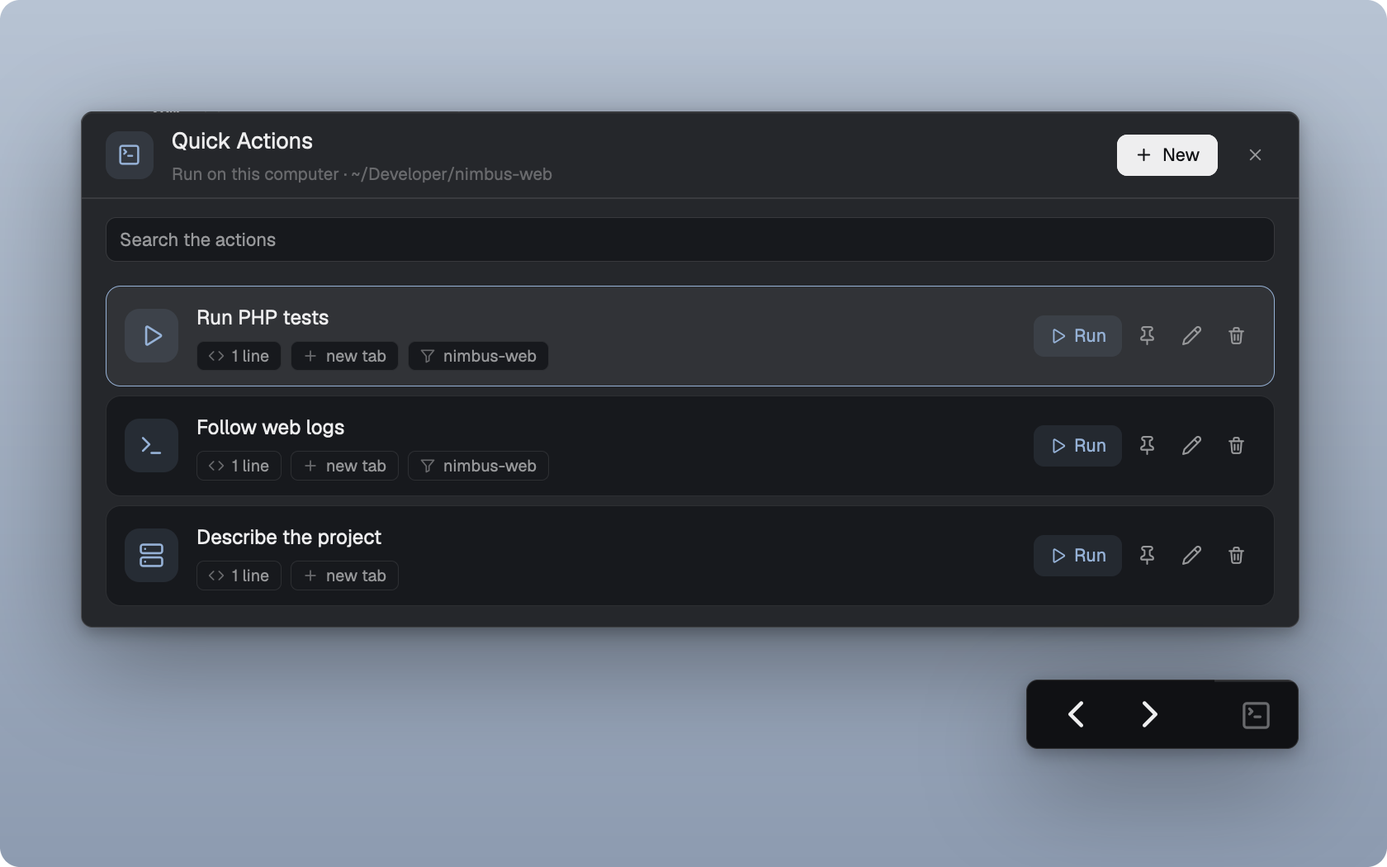
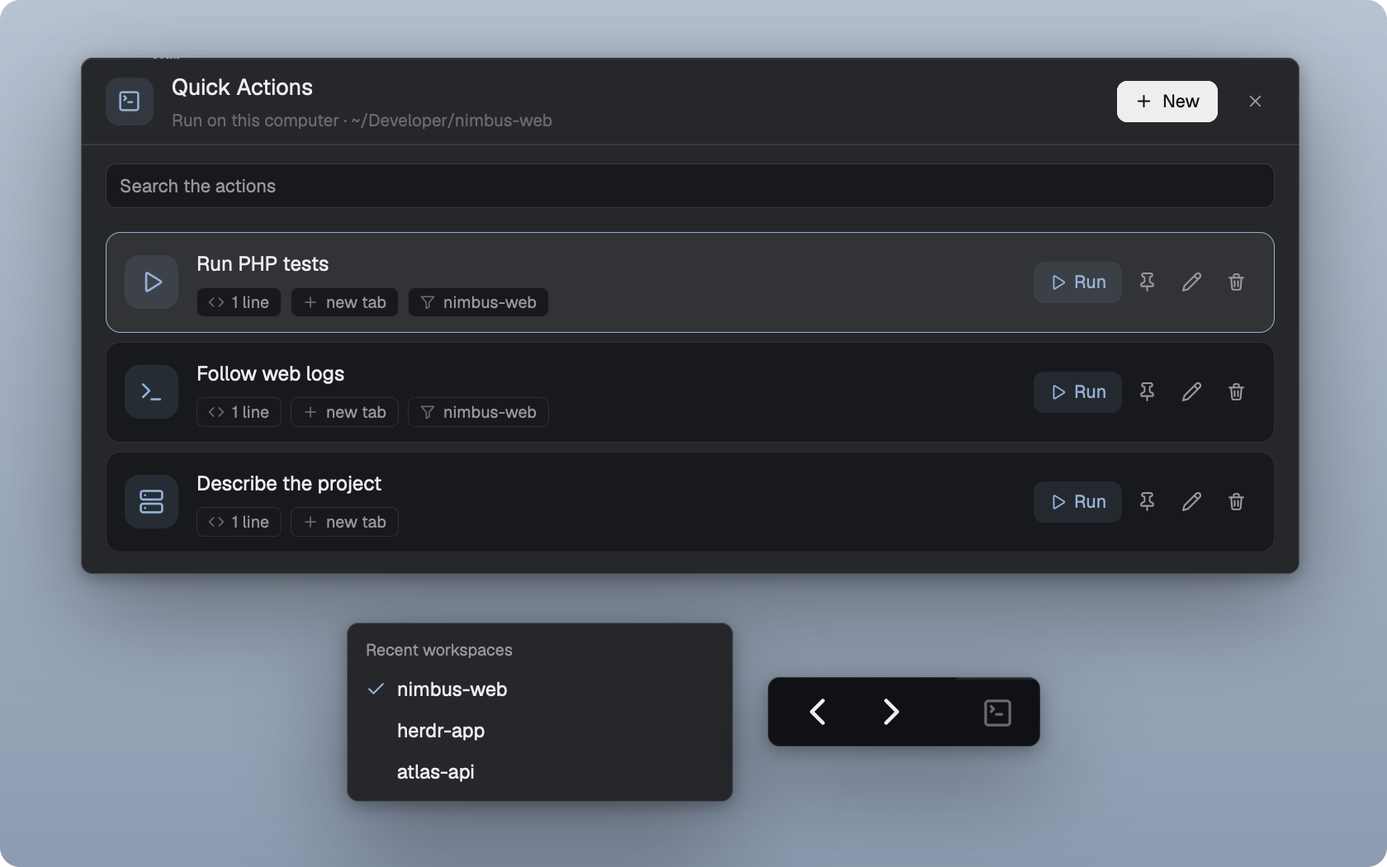
feat(back-and-forward): show recent workspaces on right-click

diff --git a/packages/back-and-forward/mods/back-and-forward/alias.js b/packages/back-and-forward/mods/back-and-forward/alias.js
@@ -1,0 +1,148 @@
+// Plausible fake names for "hide names" (shared `names.hidden`): what a screenshot shows in place
+// of a space, folder, tab, branch, machine or folder path. An alias is a pure function of the kind
+// and the real string as displayed: no map, no state, nothing written, so the same real name gets
+// the same fake one in every mod. The same file is in every mod that uses it (a mod imports only
+// from its own folder): keep the copies the same. It touches nothing of the app and runs under
+// `node` (alias.test.mjs in hide-names).
+
+const PROJECTS = [
+  "acorn", "alder", "amber", "anchor", "arbor", "aspen", "atlas", "aurora", "badger", "basalt",
+  "beacon", "birch", "bramble", "breeze", "brook", "canyon", "cascade", "cedar", "citadel", "clover",
+  "cobalt", "comet", "condor", "coral", "cosmos", "crest", "cypress", "delta", "drift", "dune",
+  "echo", "ember", "falcon", "fern", "fjord", "flint", "forge", "fox", "gale", "garnet",
+  "glacier", "granite", "grove", "gull", "harbor", "hazel", "helix", "heron", "horizon", "indigo",
+  "iris", "ivory", "jade", "jasper", "juniper", "kelp", "kestrel", "lagoon", "lantern", "larch",
+  "lark", "lotus", "lumen", "lynx", "magnet", "maple", "marble", "marlin", "meadow", "mercury",
+  "mesa", "mist", "moss", "nectar", "nimbus", "nova", "oak", "oasis", "onyx", "opal",
+  "orbit", "orchid", "osprey", "otter", "papyrus", "pebble", "pelican", "pepper", "pilot", "pine",
+  "pixel", "plume", "polar", "prairie", "prism", "puffin", "pulsar", "quartz", "quasar", "quill",
+  "raven", "reef", "ridge", "river", "rook", "rowan", "ruby", "sable", "saffron", "sage",
+  "salmon", "sequoia", "shale", "sierra", "signal", "slate", "solstice", "sonar", "spark", "sparrow",
+  "spruce", "stellar", "summit", "tango", "thistle", "tide", "timber", "topaz", "trail", "tundra",
+  "vapor", "vector", "velvet", "vertex", "walnut", "willow", "wren", "yarrow", "zenith", "zephyr",
+  "bluebell", "copper", "dahlia", "ferret", "hollow", "ibis", "kite", "linden", "monsoon", "nutmeg",
+];
+const SUFFIXES = ["-api", "-web", "-app", "-cli", "-site", "-docs"];
+
+const FOLDERS = [
+  "Clients", "Tools", "Lab", "Personal", "Infra", "Archive", "Sites", "Experiments", "Libraries", "Services",
+  "Sandbox", "Work", "Studio", "Ops", "Research", "Design", "Docs", "Apps", "Backends", "Frontends",
+  "Data", "Scripts", "Playground", "Learning", "Plugins", "Templates", "Mobile", "Games", "Hardware", "Notes",
+  "Ideas", "Forks", "Demos", "Prototypes", "Utilities", "Websites", "Themes", "Integrations", "Internal", "Later",
+];
+
+const VERBS = [
+  "Fix", "Refactor", "Add", "Update", "Review", "Clean up", "Speed up", "Document", "Test", "Migrate",
+  "Rework", "Polish", "Debug", "Simplify", "Split", "Rename", "Remove", "Profile", "Port", "Draft",
+  "Tidy", "Harden", "Extend", "Wire up",
+];
+const OBJECTS = [
+  "login redirect", "search index", "cache layer", "billing page", "CSV export", "settings screen", "image upload", "error toasts",
+  "dark mode", "signup flow", "rate limiter", "sync worker", "API client", "dashboard charts", "release notes", "onboarding tour",
+  "password reset", "date picker", "webhook handler", "CI pipeline", "build script", "feature flags", "audit log", "invoice PDF",
+  "retry logic", "query planner", "sidebar layout", "keyboard shortcuts", "theme tokens", "test fixtures", "mobile menu", "profile page",
+  "upload progress", "email templates", "cron jobs", "session timeout", "pagination", "search filters", "map view", "chart tooltips",
+  "file watcher", "config loader", "permission checks", "color picker", "metrics endpoint", "health check", "logging setup", "lint rules",
+  "docker image", "migration script", "translations", "form validation", "cart totals", "notification center", "comment thread", "tag editor",
+  "import wizard", "backup job", "status page", "schema types", "cookie banner", "footer links", "avatar crop", "timezone handling",
+  "offline mode",
+];
+
+const HOSTS = [
+  "studio", "devbox", "buildhost", "nas", "homelab", "cloudvm", "edge", "runner", "sandbox", "worker",
+  "lab", "mini", "tower", "relay", "bastion", "forge-vm", "arm-box", "gpu-node", "office", "garage",
+  "backup", "staging-vm", "media", "pi",
+];
+
+const KEEP_BRANCHES = new Set(["main", "master", "develop", "dev", "staging", "production", "trunk", "head", "detached", "(detached)"]);
+const PREFIX = /^(feat|feature|fix|bugfix|chore|docs|refactor|hotfix|release|test|perf|ci|build|style|wip)\//i;
+const BRANCH_PREFIXES = ["feat/", "fix/", "chore/", "refactor/"];
+const HERE = new Set(["this computer", "this mac"]);
+// Labels that are no one's name: a program, a shell, a tab's number.
+const PLAIN = new Set(["terminal", "shell", "zsh", "bash", "fish", "sh", "nu", "pwsh", "program"]);
+
+const norm = (s) => String(s ?? "").trim().toLowerCase();
+
+// FNV-1a, 32 bits; `seed` makes a second, independent hash of the same text.
+function hash(s, seed = 0) {
+  let h = (0x811c9dc5 ^ seed) >>> 0;
+  for (let i = 0; i < s.length; i++) h = Math.imul(h ^ s.charCodeAt(i), 0x01000193);
+  return h >>> 0;
+}
+const pick = (list, s, seed) => list[hash(s, seed) % list.length];
+const slug = (s) => s.toLowerCase().replace(/ /g, "-");
+
+// A space or project name: lower case, like a repository's. `~` and "" stay.
+export function project(name) {
+  const s = norm(name);
+  if (s === "" || s === "~") return String(name ?? "").trim();
+  const h = hash(s, 0x5a17);
+  const word = PROJECTS[h % PROJECTS.length];
+  const n = hash(s, 0x2b3c) % 16;
+  return word + (n < SUFFIXES.length ? SUFFIXES[n] : "");
+}
+
+// A sidebar folder's name. `taken`: names already given to other folders, to avoid: the next free
+// one in a stable order, else a number.
+export function folder(name, taken) {
+  const s = norm(name);
+  if (s === "") return "";
+  const start = hash(s, 0x7f01) % FOLDERS.length;
+  for (let i = 0; i < FOLDERS.length; i++) {
+    const f = FOLDERS[(start + i) % FOLDERS.length];
+    if (!taken || !taken.has(f)) return f;
+  }
+  for (let n = 2; ; n++) {
+    const f = `${FOLDERS[start]} ${n}`;
+    if (!taken.has(f)) return f;
+  }
+}
+
+// A tab's name or an agent's task title: "Refactor search index". "" stays.
+export function title(text) {
+  const s = norm(text);
+  if (s === "") return "";
+  return `${pick(VERBS, s, 0x1d)} ${pick(OBJECTS, s, 0x3e)}`;
+}
+
+// A label that may be a name or may be plain: a tab's number, a program's name (`plain`, e.g. the
+// pane's program), a shell; those stay, anything else is a title().
+export function label(text, ...plain) {
+  const s = norm(text);
+  if (s === "" || /^\d+$/.test(s) || PLAIN.has(s) || plain.some((p) => p && norm(p) === s)) return text ?? "";
+  return title(text);
+}
+
+// A branch: the usual long-lived ones stay; a conventional prefix stays, and the rest is made up.
+export function branch(name) {
+  const raw = String(name ?? "").trim();
+  const s = raw.toLowerCase();
+  if (s === "" || KEEP_BRANCHES.has(s)) return raw;
+  const m = PREFIX.exec(raw);
+  const rest = slug(pick(OBJECTS, s, 0x4c));
+  return (m ? m[0].toLowerCase() : pick(BRANCH_PREFIXES, s, 0x55)) + rest;
+}
+
+// A machine's name. This computer's label stays.
+export function machine(name) {
+  const s = norm(name);
+  if (s === "" || HERE.has(s)) return String(name ?? "");
+  return pick(HOSTS, s, 0x6d);
+}
+
+// A folder path, for a pane header: home is `~`; else `~/<fake project>`, named after the segment
+// that is the space's real name when there is one (then `/…` when the folder is deeper), else after
+// the last segment. No real segment is ever shown.
+export function path(cwd, home, spaceName) {
+  if (!cwd) return "";
+  const trim = (p) => String(p ?? "").replace(/\/+$/, "");
+  const c = trim(cwd), h = trim(home);
+  if (c === "" || c === h || c === "~") return "~";
+  const segs = c.split("/").filter(Boolean);
+  if (!segs.length) return "~";
+  const want = norm(spaceName);
+  let at = -1;
+  if (want && want !== "~") for (let i = segs.length - 1; i >= 0; i--) if (norm(segs[i]) === want) { at = i; break; }
+  if (at >= 0) return `~/${project(segs[at])}${at < segs.length - 1 ? "/…" : ""}`;
+  return `~/${project(segs[segs.length - 1])}`;
+}

diff --git a/packages/back-and-forward/mods/back-and-forward/main.js b/packages/back-and-forward/mods/back-and-forward/main.js
@@ -3,10 +3,12 @@
 // updates which pane that step comes back to.
 
 import { View, div, svg } from "gpui-kit";
-import { h_flex } from "gpui-base";
-import { checking, focused, nextCommand, panes, spaces, theme, run } from "herdr";
+import { h_flex, v_flex } from "gpui-base";
+import { checking, closeOverlay, focused, nextCommand, openOverlay, panes, props, run, shared, spaces, theme } from "herdr";
+import * as alias from "./alias.js";
 
 const MAX_STEPS = 100;
+const ROW_HEIGHT = 28;
 // A step runs space.select, tab.select and pane.focus in turn, and a render can land between them.
 const ARRIVAL_WINDOW_MS = 1000;
 
@@ -19,6 +21,12 @@ function tabExists(step, available) {
 
 export default class BackForward extends View {
   init(_p, cx) {
+    const p = props();
+    if (p?.overlay && Array.isArray(p.recent)) {
+      this.menu = p;
+      return;
+    }
+    this.recent = [];
     this.steps = [];
     this.index = -1;
     this.goingTo = null;
@@ -35,6 +43,9 @@ export default class BackForward extends View {
   follow() {
     const f = focused();
     if (!f?.space || !f.tab) return;
+    if (this.recent[0] !== f.space) {
+      this.recent = [f.space, ...this.recent.filter((id) => id !== f.space)].slice(0, MAX_STEPS);
+    }
     if (this.goingTo !== null) {
       const target = this.steps[this.goingTo.index];
       if (target && sameTab(target, f)) {
@@ -88,20 +99,51 @@ export default class BackForward extends View {
     this.go(e.button === "back" ? -1 : 1);
   }
 
+  recentMenu(t, available) {
+    const byId = new Map(available.map((space) => [space.id, space]));
+    const recent = this.menu.recent.map((id) => byId.get(id)).filter(Boolean);
+    const hidden = shared("names.hidden");
+    const row = (space) => {
+      const name = hidden ? alias.project(space.name) : space.name;
+      const machine = hidden ? alias.machine(space.machine) : space.machine;
+      return h_flex().id(`recent-${space.id}`).h(ROW_HEIGHT).flex_none().items_center().gap(7).px(7).rounded(5)
+        .cursor_pointer().hover((s) => s.bg(t.hover))
+        .tooltip(machine ? `${name} · ${machine}` : name)
+        .on_click(() => {
+          closeOverlay(this.menu.overlay);
+          if (spaces().some((s) => s.id === space.id && !s.active)) run("space.select", { id: space.id });
+        })
+        .child(div().size(14).flex_none().when(space.active, (el) =>
+          el.child(svg("mods/workspace-chrome/check.svg").size(14).text_color(t.accent))))
+        .child(div().flex_1().min_w(0).truncate().child(name))
+        .when(Boolean(machine), (el) => el.child(div().max_w(100).truncate().text_size(11).text_color(t.muted).child(machine)));
+    };
+    return v_flex().w_full().min_h(0).p(5).bg(t.popover).text_size(13).text_color(t.foreground)
+      .child(div().px(7).py(4).flex_none().text_size(11).font_semibold().text_color(t.muted).child("Recent workspaces"))
+      .child(recent.length
+        ? v_flex().id("recent-list").min_h(0).h(ROW_HEIGHT * Math.min(10, recent.length)).overflow_y_scrollbar().children(recent.map(row))
+        : div().px(7).py(6).text_color(t.muted).child("No recent workspaces"));
+  }
+
   button(t, id, icon, direction, label, available) {
     const enabled = this.nextIndex(direction, available) !== null;
     return div().id(id).size(28).flex_none().flex().items_center().justify_center().rounded(7)
       .text_color(enabled ? t.foreground : t.dim).opacity(enabled ? 1 : 0.45)
       .when(enabled, (el) => el.cursor_pointer().hover((s) => s.bg(t.hover)))
-      .tooltip(label)
+      .tooltip(`${label} · Right-click for recent workspaces`)
+      .on_mouse_down("right", (e, cx) => {
+        cx.stop_propagation();
+        openOverlay({ mod: "back-and-forward", kind: "popup", at: e.position, width: 260, props: { recent: this.recent } });
+      })
       .on_mouse_down("left", (_e, cx) => cx.stop_propagation())
       .on_click(() => this.go(direction))
       .child(svg(`mods/workspace-chrome/${icon}.svg`).size(18));
   }
 
   render() {
-    this.follow();
     const t = theme(), available = spaces();
+    if (this.menu) return this.recentMenu(t, available);
+    this.follow();
     // Outside the status block, capture the press before the editor or diff gets it.
     // Inside, the same gesture goes through the block's own button handlers.
     const press = (e, cx) => this.mouseHistory(e, cx);

diff --git a/docs/check-shared.py b/docs/check-shared.py
@@ -4,7 +4,7 @@ import sys
 
 PACKAGES = Path(__file__).resolve().parents[1] / "packages"
 COPIES = {
-    "alias.js": {"hide-names", "tabs-names", "pane-names", "toast-names", "space-folders", "mark-agents-unread", "agent-usage"},
+    "alias.js": {"hide-names", "tabs-names", "pane-names", "toast-names", "space-folders", "mark-agents-unread", "agent-usage", "back-and-forward"},
     "fieldkeys.js": {"file-editor", "project-search", "go-to-file"},
     "remote.js": {"file-editor", "project-search"},
     "external-apps.js": {"file-explorer", "project-search", "space-folders"},

diff --git a/docs/agents/back-forward.md b/docs/agents/back-forward.md
@@ -5,7 +5,8 @@ Two status-bar buttons step through the places visited in this window. This is a
 ## Implementation
 
 - `main.js` keeps the history and paints the two arrows. `follow()` records the focused space, tab and pane on render. `nextIndex()` finds a visit in the requested direction. `go()` selects the destination space, then the tab, then its pane if it still belongs to that tab.
-- All state is in the view instance. It holds at most 100 visits. Reloading the mod or switching layouts starts fresh. Destinations use Herdr’s full IDs, including the machine prefix.
+- The status-bar instance holds at most 100 tab visits and a separate list of the last 100 distinct space IDs in visit order. Reloading the mod or switching layouts starts fresh. Destinations use Herdr’s full IDs, including the machine prefix.
+- Right-click opens a popup copy with the recent IDs in its props. It resolves names, machine labels and the active check against live spaces on render. `alias.js` supplies the same project and machine names as the sidebar when Hide Names is on. Only the status-bar copy follows focus and listens for navigation commands.
 - `mod.json` declares the two unbound palette commands, `back-and-forward.back` and `back-and-forward.forward`. Both and the buttons use `go()`. The chevrons come from Herdr’s shipped `workspace-chrome` assets. The layout supplies a 76 px block.
 - In the Power Tools layout, the `pane-names` header gets `{ "terminalHistory": true }`. On a terminal it extends a transparent side-button target from the header into the body. Herdr clips the target to that pane’s frame. It calls the same two commands.
 
@@ -15,10 +16,13 @@ Two status-bar buttons step through the places visited in this window. This is a
 - The status block also handles Option-only Back/Forward on press when the driver reports Option. Outside the block, `on_mouse_down_out` captures the press before panel handlers. Inside, the matching `on_mouse_down` handles it. Consume the chord even at a history boundary. Other modifier combinations pass through.
 - Only a change of tab or space adds a visit. A pane change updates the current visit. A temporarily missing pane, for example when a layout terminal takes focus, preserves the last model pane.
 - A new visit after Back discards the forward history. Skip unavailable tabs and consecutive equivalent destinations after a tab closes.
+- Both arrows open the same recent-workspace list, including at either history boundary. Back and Forward visits update its order, and branching preserves previously visited spaces in the list. Choosing a row uses `space.select`, as in the sidebar. Closed spaces drop out of the popup and are checked again at click time.
 - Keep a copy of the requested pane before issuing the selection commands. Intermediate renders may already show the right tab focused on a different pane. When the saved pane no longer exists, let Herdr choose the tab’s remaining pane.
 
 ## Verification
 
 The native checker loaded the mod. A simulated navigation test covered cross-machine IDs, redraws between commands, returning to a split pane, forward-history truncation, closed tabs and panes, and the history limit. A separate Herdr window with fake projects restored the expected space and pane in both directions using the two commands. Simulated events checked Option-only handling inside and outside the status block and at the end of history.
+
+An isolated Herdr window exercised both right-click callbacks with three demo spaces, including a dim Forward arrow. Selecting a row through its click callback switched spaces, and Back restored the previous tab and pane. The screenshot confirmed the list fits its rows. Its scroll area needs an explicit height or only the heading appears. Simulated events also covered repeat visits, branching, renamed and closed spaces, remote IDs, Hide Names and the 100-space limit. The pointer gestures were simulated.
 
 In an isolated stock Herdr 0.1.18 window on macOS, an MX Master 3 delivered Back and Forward with `alt: false` while Option was held. With a terminal above a two-file editor, the owner verified that plain Back over the editor switched files and that Back and Forward over the terminal switched workspace tabs in both directions. Simulated presses checked both header positions, modifier filtering and the opt-in on terminal panes.

diff --git a/AGENTS.override.md b/AGENTS.override.md
@@ -28,8 +28,8 @@ The mod sources are under `packages/<feature>/mods/<name>/`. Herdr reads real co
 | `agent-usage` | The dialog and sidebar widget of the AI agents' limits and usage. Not a clone | `docs/agents/usage.md` |
 | `tabs-names`, `pane-names`, `hide-names`, `toast-names` | Clones of Herdr's `tabs`, `pane`, `workspace-status` and `toast` (from version 0.1.18), for hide names | `docs/agents/hide-names.md` |
 
-- **Hide names** is a mode of the whole window, not one mod: `space-folders`, `mark-agents-unread`, `agent-usage` and the four clones above draw made-up names while shared `names.hidden` is set. Read `docs/agents/hide-names.md` before changing where any of them draws a name.
-- **Files kept the same in several mods**, since a mod imports only from its own folder: `alias.js` (in `hide-names`, `tabs-names`, `pane-names`, `toast-names`, `space-folders`, `mark-agents-unread` and `agent-usage`), `fieldkeys.js` (in `file-editor`, `project-search` and `go-to-file`), `remote.js` (in `file-editor` and `project-search`), `external-apps.js` (in `file-explorer`, `project-search` and `space-folders`) and `git-guard.js` (in `git-panel` and `git-diff`). Change every copy together. `python3 docs/check-shared.py` verifies all five families before each push.
+- **Hide names** is a mode of the whole window, not one mod: `space-folders`, `mark-agents-unread`, `agent-usage`, `back-and-forward` and the four clones above draw made-up names while shared `names.hidden` is set. Read `docs/agents/hide-names.md` before changing where any of them draws a name.
+- **Files kept the same in several mods**, since a mod imports only from its own folder: `alias.js` (in `hide-names`, `tabs-names`, `pane-names`, `toast-names`, `space-folders`, `mark-agents-unread`, `agent-usage` and `back-and-forward`), `fieldkeys.js` (in `file-editor`, `project-search` and `go-to-file`), `remote.js` (in `file-editor` and `project-search`), `external-apps.js` (in `file-explorer`, `project-search` and `space-folders`) and `git-guard.js` (in `git-panel` and `git-diff`). Change every copy together. `python3 docs/check-shared.py` verifies all five families before each push.
 - **Keep the notes true.** A change to what a mod does, to where its state lives or to something under its "Behavior to preserve" goes into its notes in the same change. A note about one mod goes in its file, not here; a new mod gets a file and a row in the table.
 - **Layout `herdr-powertools`** (`layouts/herdr-powertools.json`): a clone of Herdr's `main` (from version 0.1.18). The differences: its `spaces` block shows the mod `space-folders`, its `agents` block shows the mod `mark-agents-unread`, its `files` block shows the mod `file-explorer` and its `changes` block shows the mod `git-panel` (the block keeps its id, so the tab bar’s Git button opens it); the panel's stack has a third child, `search`, which shows the mod `project-search`; the `work` column ends with `search-keys`, a block 0 px tall with a second copy of `project-search` that only takes a key; and its root has `link_handlers: ["editor-links"]` (Herdr added it when it first saw that mod). The sidebar has a block of its own between `brand` and `sidebar-lists`, `usage-side` (62 px, the mod `agent-usage` with props `{ role: "side" }`). Its `tabs` block shows the mod `tabs-names`, the tab block's pane frame has the header `pane-names`, and its `status` block shows `hide-names` (each block keeps its id), and its root has `"toast": "toast-names"`, which draws every notification: Herdr's own, with hide names (see `docs/agents/hide-names.md`). The status bar has no usage figures: they were taken out, since the widget shows them. Its look adds, since 0.1.18: a `veil` of 0.3 on the tab block's pane frame (the panes you're not in fade, mod panes too) and an `accent` hover color on the root's divider.
 

diff --git a/docs/agents/hide-names.md b/docs/agents/hide-names.md
@@ -2,11 +2,11 @@
 
 Notes for agents on the window's hide names mode, and on the four clones made for it: the mods in `packages/hide-names/mods/tabs-names/`, `packages/hide-names/mods/pane-names/`, `packages/hide-names/mods/hide-names/` and `packages/hide-names/mods/toast-names/`. The index and what holds for every mod are in `AGENTS.override.md`.
 
-A mode of the whole window for a screenshot or a screen share, in which the names around the content are plausible made-up ones ("atlas", "Clients", "Refactor search index", `feat/search-filters`, "studio"). Shared `names.hidden` (`true`, else absent or `false`). `hide-names.toggle` turns it on and off (`cmd-shift-h` in `global`, and the palette's "Hide Names / Show Names"); the Usage dialog's toggle, its `h` key and `agent-usage.names` set the same flag. What it changes: the sidebar (`space-folders`), the agents list (`mark-agents-unread`), the tab bar (`tabs-names`), the pane headers (`pane-names`), the status bar (`hide-names`), the Usage dialog (`agent-usage`) and the notifications (`toast-names`). What it leaves: the panes' content (terminals, the editor, the diff) and the right panel (`file-explorer`, `git-panel`, `project-search`), which are content the owner chose to show.
+A mode of the whole window for a screenshot or a screen share, in which the names around the content are plausible made-up ones ("atlas", "Clients", "Refactor search index", `feat/search-filters`, "studio"). Shared `names.hidden` (`true`, else absent or `false`). `hide-names.toggle` turns it on and off (`cmd-shift-h` in `global`, and the palette's "Hide Names / Show Names"); the Usage dialog's toggle, its `h` key and `agent-usage.names` set the same flag. What it changes: the sidebar (`space-folders`), the agents list (`mark-agents-unread`), the tab bar (`tabs-names`), the pane headers (`pane-names`), the status bar (`hide-names`), its recent workspaces menu (`back-and-forward`), the Usage dialog (`agent-usage`) and the notifications (`toast-names`). What it leaves: the panes' content (terminals, the editor, the diff) and the right panel (`file-explorer`, `git-panel`, `project-search`), which are content the owner chose to show.
 
 ## What is where
 
-- `alias.js`: the made-up names, a pure function of the kind (`project()`, `folder()`, `title()`, `label()`, `branch()`, `machine()`, `path()`) and the real string as drawn. The same file is in `hide-names`, `tabs-names`, `pane-names`, `toast-names`, `space-folders`, `mark-agents-unread` and `agent-usage` (a mod imports only from its own folder): keep the copies the same. `alias.test.mjs` in `hide-names` tests it under `node --test`. The repository’s `docs/check-shared.py` checks all copies byte for byte.
+- `alias.js`: the made-up names, a pure function of the kind (`project()`, `folder()`, `title()`, `label()`, `branch()`, `machine()`, `path()`) and the real string as drawn. The same file is in `hide-names`, `tabs-names`, `pane-names`, `toast-names`, `space-folders`, `mark-agents-unread`, `agent-usage` and `back-and-forward` (a mod imports only from its own folder): keep the copies the same. `alias.test.mjs` in `hide-names` tests it under `node --test`. The repository’s `docs/check-shared.py` checks all copies byte for byte.
 - Started again, the app shows names: `hide-names` reads, in a task at its start, the app's process id and start time (`ps` on the `$PPID` of a program it runs, which is the app, called `Herdr`), keeps it in shared `names.boot`, and turns `names.hidden` off when the one kept is another run's. `names.boot` is written only when it changed.
 
 ## The four clones

diff --git a/docs/back-forward.md b/docs/back-forward.md
@@ -2,13 +2,15 @@
 
 Click **Back** in the status bar to return to the tab you were using before you switched spaces or jumped to an agent. Herdr restores the pane you last used in that tab, including a file editor or diff pane. **Forward** takes you back through the same visits. A dim arrow means there is no visit in that direction.
 
+Right-click either arrow, even a dim one, to see **Recent workspaces**. Each open space you’ve visited appears once, most recent first, with a check beside the current space. Click a name to switch directly to that space’s selected tab and pane. **Back** returns you to the tab you just left.
+
 In the Power Tools layout, point at a terminal and press the mouse’s **Back** or **Forward** button to use workspace history. In a split tab, the pointer decides which history you use. Over the File Editor the buttons switch files, and over a diff they move between changed files.
 
 **Option** (Alt) plus a side button also navigates workspace history over other panels when the mouse reports the modifier. With an MX Master 3 on macOS, Herdr can receive these as plain side clicks.
 
 Switching panes within one tab updates where you return. Going back and then choosing a different tab starts a new path. Closed tabs are skipped. If a pane has closed, the arrow opens its tab with the pane Herdr selects.
 
-The current window remembers up to 100 visits in memory. Restarting Herdr, switching layouts or reloading the mod starts a fresh history. **Go Back** and **Go Forward** are also in the command palette. To assign shortcuts, use `back-and-forward.back` and `back-and-forward.forward` in the global section of `keys.json`.
+The current window remembers up to 100 tab visits and 100 distinct recent workspaces in memory. Restarting Herdr, switching layouts or reloading the mod starts a fresh history. **Go Back** and **Go Forward** are also in the command palette. To assign shortcuts, use `back-and-forward.back` and `back-and-forward.forward` in the global section of `keys.json`.
 
 Adapted from the MIT-licensed [PostHog mod](https://github.com/PostHog/herdr/tree/8b0be111696030a626c47f90dceb77a579d33768/back-forward).
 

diff --git a/docs/hide-names.md b/docs/hide-names.md
@@ -1,6 +1,6 @@
 # Hide Names
 
-For a screenshot or a screen share: Cmd+Shift+H (or "Hide Names / Show Names" in the command palette) gives every space, folder, tab, branch and machine around the content a plausible made-up name, in the sidebar, the agents list, the tab bar, the pane headers, the status bar, the Usage dialog and the notifications. The same real name always gets the same made-up one. What the panes and the right panel show stays real: that is the content you chose to show. Press it again to show the names; the app also shows them again when it starts.
+For a screenshot or a screen share: Cmd+Shift+H (or "Hide Names / Show Names" in the command palette) gives every space, folder, tab, branch and machine around the content a plausible made-up name, in the sidebar, the agents list, the tab bar, the pane headers, the status bar and its recent workspaces menu, the Usage dialog and the notifications. The same real name always gets the same made-up one. What the panes and the right panel show stays real: that is the content you chose to show. Press it again to show the names; the app also shows them again when it starts.
 
 ![The sidebar, tab bar and pane header with real names, and the same window with made-up names](images/hide-names.webp)
 

diff --git a/README.md b/README.md
@@ -143,9 +143,9 @@ The `herdr-powertools` layout puts Files, Search and Git together on the tab bar
 
 ### Workspace controls
 
-Use the status bar arrows or press a mouse side button over a terminal to return to the tab and pane you left. **Quick Actions** opens with <kbd>Alt</kbd>+<kbd>Q</kbd> or the adjacent status button. Save a project command once and run it in a new terminal tab on that project’s machine.
+Use the status bar arrows or press a mouse side button over a terminal to return to the tab and pane you left. Right-click either arrow to jump to a recent workspace. **Quick Actions** opens with <kbd>Alt</kbd>+<kbd>Q</kbd> or the adjacent status button. Save a project command once and run it in a new terminal tab on that project’s machine.
 
-![Saved DDEV commands and the navigation controls in the status bar](docs/images/workspace-tools.webp)
+![Saved DDEV commands, the recent workspaces menu and the status bar arrows](docs/images/workspace-tools.webp)
 
 [Back and Forward](docs/back-forward.md) · [Quick Actions](docs/quick-actions.md)
 
